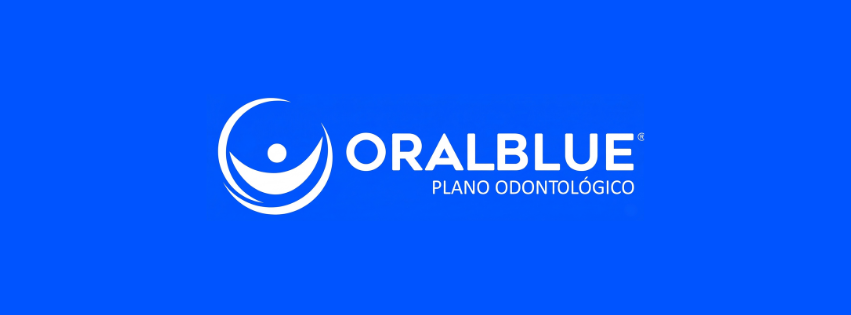
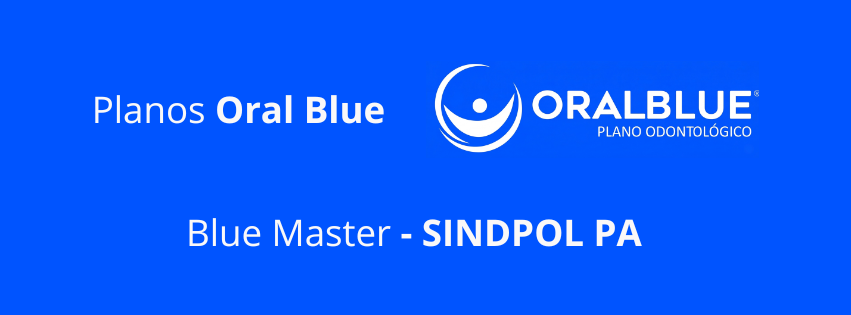
ajustes finais no projeto

Changed region(s): [[0.0917, 0.2, 0.9166, 0.8], [0.4888, 0.5714, 0.7638, 0.6286]]

diff --git a/index.html b/index.html
@@ -23,8 +23,8 @@
 
   <!-- BOTÃO FLUTUANTE DO WHATSAPP -->
   <a href="https://wa.me/5591999635260?text=Olá!%20gostaria%20de%20mais%20informações%20sobre%20os%20planos%20do%20Grupo%20Blue%20e%20da%20Sabemi."
-    target="_blank" class="whatsapp-float" id="whatsappFloat" aria-label="WhatsApp"
-    aria-hidden="true" style="display: none;">
+    target="_blank" class="whatsapp-float" id="whatsappFloat" aria-label="WhatsApp" aria-hidden="true"
+    style="display: none;">
     <svg class="whatsapp-icon" xmlns="http://www.w3.org/2000/svg" viewBox="0 0 32 32" fill="currentColor">
       <path
         d="M19.11 17.23c-.27-.14-1.58-.78-1.82-.87-.24-.09-.42-.14-.59.14-.18.27-.68.87-.84 1.05-.15.18-.31.2-.58.07-.27-.14-1.13-.42-2.16-1.33-.8-.71-1.34-1.58-1.49-1.85-.15-.27-.02-.42.11-.56.12-.12.27-.31.41-.47.14-.16.18-.27.27-.45.09-.18.05-.34-.02-.47-.07-.14-.59-1.43-.81-1.96-.21-.51-.43-.44-.59-.45h-.5c-.18 0-.47.07-.72.34s-.95.93-.95 2.27.97 2.63 1.11 2.81c.14.18 1.91 2.91 4.62 4.08.65.28 1.16.45 1.56.58.66.21 1.26.18 1.73.11.53-.08 1.58-.65 1.8-1.28.22-.63.22-1.17.15-1.28-.06-.11-.24-.18-.5-.31Z" />
@@ -186,7 +186,7 @@
               <div class="footer-cta">
                 <a href="https://wa.me/5591999635260?text=Olá!%20gostaria%20de%20mais%20informações%20sobre%20os%20planos%20do%20Grupo%20Blue%20e%20da%20Sabemi."
                   target="_blank" class="contact-button" aria-label="Entre em contato pelo WhatsApp">
-                  <span>Saiba mais</span>
+                  <span>Adquira aqui</span>
 
                   <svg class="whatsapp-icon" xmlns="http://www.w3.org/2000/svg" viewBox="0 0 32 32" fill="currentColor"
                     aria-hidden="true">
@@ -305,6 +305,23 @@
               </div>
 
               <br /><br /><br /><br />
+
+              <div class="footer-cta">
+                <a href="https://wa.me/5591999635260?text=Olá!%20gostaria%20de%20mais%20informações%20sobre%20os%20planos%20do%20Grupo%20Blue%20e%20da%20Sabemi."
+                  target="_blank" class="contact-button" aria-label="Entre em contato pelo WhatsApp">
+                  <span>Adquira aqui</span>
+
+                  <svg class="whatsapp-icon" xmlns="http://www.w3.org/2000/svg" viewBox="0 0 32 32" fill="currentColor"
+                    aria-hidden="true">
+                    <path
+                      d="M19.11 17.23c-.27-.14-1.58-.78-1.82-.87-.24-.09-.42-.14-.59.14-.18.27-.68.87-.84 1.05-.15.18-.31.2-.58.07-.27-.14-1.13-.42-2.16-1.33-.8-.71-1.34-1.58-1.49-1.85-.15-.27-.02-.42.11-.56.12-.12.27-.31.41-.47.14-.16.18-.27.27-.45.09-.18.05-.34-.02-.47-.07-.14-.59-1.43-.81-1.96-.21-.51-.43-.44-.59-.45h-.5c-.18 0-.47.07-.72.34s-.95.93-.95 2.27.97 2.63 1.11 2.81c.14.18 1.91 2.91 4.62 4.08.65.28 1.16.45 1.56.58.66.21 1.26.18 1.73.11.53-.08 1.58-.65 1.8-1.28.22-.63.22-1.17.15-1.28-.06-.11-.24-.18-.5-.31Z" />
+                    <path
+                      d="M16.03 3.2C9 3.2 3.3 8.9 3.3 15.93c0 2.25.59 4.45 1.72 6.38L3.2 28.8l6.65-1.74a12.68 12.68 0 0 0 6.18 1.58h.01c7.03 0 12.73-5.71 12.73-12.74 0-3.41-1.33-6.62-3.74-9.03A12.62 12.62 0 0 0 16.03 3.2Zm0 23.29h-.01a10.5 10.5 0 0 1-5.35-1.46l-.38-.22-3.95 1.03 1.05-3.85-.25-.39a10.54 10.54 0 1 1 8.89 4.89Z" />
+                  </svg>
+                </a>
+              </div>
+
+              <br><br><br><br>
 
               <!-- ASSISTÊNCIA RESIDENCIAL-->
               <h2 class="section-title">
@@ -541,7 +558,7 @@
                     lavandeira (freezer, refrigerador, máquina de lavar e/ou secar
                     roupas, fogão, frigobar, microondas, fornos elétricos, cooktops
                     elétricos).<br /><br />
-                    <b>São considerados aparelhos de Linha Branca:</b>
+                    <b>São considerados aparelhos de Linha Marrom:</b>
                     eletroeletrônicos como televisores, aparelhos de som, aparelhos
                     de DVD, home theater e telefones sem fio.<br /><br />
 
@@ -825,7 +842,7 @@
               <div class="footer-cta">
                 <a href="https://wa.me/5591999635260?text=Olá!%20gostaria%20de%20mais%20informações%20sobre%20os%20planos%20do%20Grupo%20Blue%20e%20da%20Sabemi."
                   target="_blank" class="contact-button" aria-label="Entre em contato pelo WhatsApp">
-                  <span>Fale conosco</span>
+                  <span>Adquira hoje mesmo</span>
 
                   <svg class="whatsapp-icon" xmlns="http://www.w3.org/2000/svg" viewBox="0 0 32 32" fill="currentColor"
                     aria-hidden="true">
@@ -891,12 +908,6 @@
                   </p>
                   <br /><br />
 
-                  <h3>Número para contato da Funerária:</h3>
-                  <p>
-                    <b>(91) 99963-5260</b> ou <b>(91) 98164-3641</b> - Gomes<br />
-                  </p>
-                  <br /><br />
-
                   <h3>Disponibilidade da Central de Atendimento:</h3>
                   <p>
                     24 (vinte e quatro) horas por dia e 07 (sete) dias por
@@ -906,7 +917,7 @@
 
                   <h3>Disponibilidade da Prestação do Serviço:</h3>
                   <p>
-                    segunda a sexta-feira das 08:00 as 18:00 horas - exceto
+                    Segunda à Sexta-feira das 08:00 às 18:00 e aos Sábados 08:00 às 12:00 - Exceto
                     feriados.<br />
                   </p>
                   <br /><br />
@@ -919,20 +930,35 @@
                   <br /><br />
                 </article>
               </div>
+
+              <br><br><br><br>
+
+              <h2 class="section-title">
+                Serviço Funerário:
+              </h2>
+              <div class="cards-grid">
+                <article class="card">
+                  <h3>Em caso de Emergência:</h3>
+                  <p>
+                    <b>(91) 99963-5260</b> - Funerária Gomes & Rosiane<br />
+                  </p>
+                  <br /><br />
+
+                  <h3>Número Para dar Entrada em Caso de Sinistro Acidental:</h3>
+                  <p>
+                    <b>(91) 98164-3641</b> - Gomes<br />
+                  </p>
+
+                </article>
+              </div>
             </main>
 
             <footer class="footer">
-              <!--
-                <div class="footer-block">
-                    <h3>Atendimento estratégico</h3>
-                    <p>
-                        Desenvolvemos experiências digitais com foco em apresentação,
-                        autoridade e conversão.
-                    </p>
-                </div>
-                -->
+              <div class="footer-actions">
+                <button class="footer-back-button" type="button" data-target="introScreen">
+                  Voltar à tela inicial
+                </button>
 
-              <div class="footer-cta">
                 <a href="https://wa.me/5591999635260?text=Olá!%20gostaria%20de%20mais%20informações%20sobre%20os%20planos%20do%20Grupo%20Blue%20e%20da%20Sabemi."
                   target="_blank" class="contact-button" aria-label="Entre em contato pelo WhatsApp">
                   <span>Entre em contato</span>
@@ -946,16 +972,6 @@
                   </svg>
                 </a>
               </div>
-
-              <!--
-                <div class="footer-block">
-                    <h3>Presença que gera percepção</h3>
-                    <p>
-                        Quando o design transmite confiança logo no primeiro olhar, a marca
-                        começa a vender antes mesmo do primeiro clique.
-                    </p>
-                </div>
-                -->
             </footer>
           </div>
         </div>
@@ -972,7 +988,7 @@
 
           <div class="container oral-blue-theme">
             <header class="header">
-              <img src="img/capa-oralblue2.png" alt="Oral Blue" class="header-image" />
+              <img src="img/capa-oralblue.png" alt="Oral Blue" class="header-image" />
             </header>
 
             <section class="hero hero-oral">
@@ -1042,7 +1058,7 @@
                 <a href="https://wa.me/5591999635260?text=Olá!%20gostaria%20de%20mais%20informações%20sobre%20o%20plano%20Oral%20Blue."
                   target="_blank" class="contact-button contact-button-oral"
                   aria-label="Entre em contato pelo WhatsApp">
-                  <span>Saiba mais</span>
+                  <span>Adquira aqui</span>
 
                   <svg class="whatsapp-icon" xmlns="http://www.w3.org/2000/svg" viewBox="0 0 32 32" fill="currentColor"
                     aria-hidden="true">
@@ -1128,17 +1144,21 @@
               </div>
 
               <article class="card card-oral">
-                  <h3>ADQUIRA O PLANO HOJE MESMO E FIQUE ISENTO DE CARÊNCIA</h3>
-                </article>
+                <h3>ADQUIRA O PLANO HOJE MESMO E FIQUE ISENTO DE CARÊNCIA</h3>
+              </article>
 
             </main>
 
             <footer class="footer footer-oral">
-              <div class="footer-cta">
+              <div class="footer-actions">
+                <button class="footer-back-button footer-back-button-oral" type="button" data-target="introScreen">
+                  Voltar à tela inicial
+                </button>
+
                 <a href="https://wa.me/5591999635260?text=Olá!%20gostaria%20de%20mais%20informações%20sobre%20o%20plano%20Oral%20Blue."
                   target="_blank" class="contact-button contact-button-oral"
                   aria-label="Entre em contato pelo WhatsApp">
-                  <span>Entre em Contato</span>
+                  <span>Entre em contato</span>
 
                   <svg class="whatsapp-icon" xmlns="http://www.w3.org/2000/svg" viewBox="0 0 32 32" fill="currentColor"
                     aria-hidden="true">
@@ -1150,6 +1170,7 @@
                 </a>
               </div>
             </footer>
+
           </div>
         </div>
       </section>

diff --git a/css/style.css b/css/style.css
@@ -277,7 +277,7 @@ body {
 
   display: flex;
   justify-content: center;
-  align-items: flex-start;
+  align-items: center;
 
   border-top: 1px solid rgba(255, 255, 255, 0.08);
 }
@@ -306,6 +306,70 @@ body {
   align-items: flex-start;
   justify-content: center;
   width: 100%;
+}
+
+.footer-actions {
+  display: flex;
+  align-items: center;
+  justify-content: space-around;
+  gap: 8px;
+  width: 100%;
+  flex-wrap: wrap;
+}
+
+.footer-back-button {
+  position: relative;
+  display: inline-flex;
+  align-items: center;
+  justify-content: center;
+  gap: 10px;
+  min-width: 280px;
+  min-height: 58px;
+  padding: 18px 28px;
+  border: 1px solid rgba(3, 171, 191, 0.22);
+  border-radius: 999px;
+  background: #eeeeee;
+  color: #03abbf;
+  font-size: 1rem;
+  font-weight: 800;
+  letter-spacing: 0.02em;
+  box-shadow:
+    0 10px 24px rgba(3, 171, 191, 0.08),
+    inset 0 1px 0 rgba(255, 255, 255, 0.8);
+  cursor: pointer;
+  transition:
+    transform 0.3s ease,
+    box-shadow 0.3s ease,
+    border-color 0.3s ease,
+    filter 0.3s ease;
+}
+
+.footer-back-button:hover {
+  transform: translateY(-3px);
+  border-color: rgba(3, 171, 191, 0.38);
+  box-shadow:
+    0 16px 32px rgba(3, 171, 191, 0.14),
+    0 0 0 6px rgba(3, 171, 191, 0.06);
+  filter: brightness(1.01);
+}
+
+.footer-back-button:active {
+  transform: scale(0.985);
+}
+
+.footer-back-button-oral {
+  color: #0054ff;
+  border: 1px solid rgba(0, 84, 255, 0.22);
+  box-shadow:
+    0 10px 24px rgba(0, 84, 255, 0.08),
+    inset 0 1px 0 rgba(255, 255, 255, 0.8);
+}
+
+.footer-back-button-oral:hover {
+  border-color: rgba(0, 84, 255, 0.38);
+  box-shadow:
+    0 16px 32px rgba(0, 84, 255, 0.14),
+    0 0 0 6px rgba(0, 84, 255, 0.06);
 }
 
 .contact-button {
@@ -377,7 +441,7 @@ body {
 .scroll-top-float {
   position: fixed;
   bottom: 92px;
-  right: 24px;
+  right: 50px;
   width: 34px;
   height: 34px;
   display: flex;

diff --git a/css/responsivo.css b/css/responsivo.css
@@ -112,6 +112,19 @@
     width: 50px;
     height: 50px;
   }
+
+  .footer-actions {
+    flex-direction: column;
+    align-items: stretch;
+  }
+
+  .footer-back-button,
+  .footer-back-button-oral,
+  .contact-button,
+  .contact-button-oral {
+    width: 100%;
+    min-width: unset;
+  }
 }
 
 @media (max-width: 760px) {
